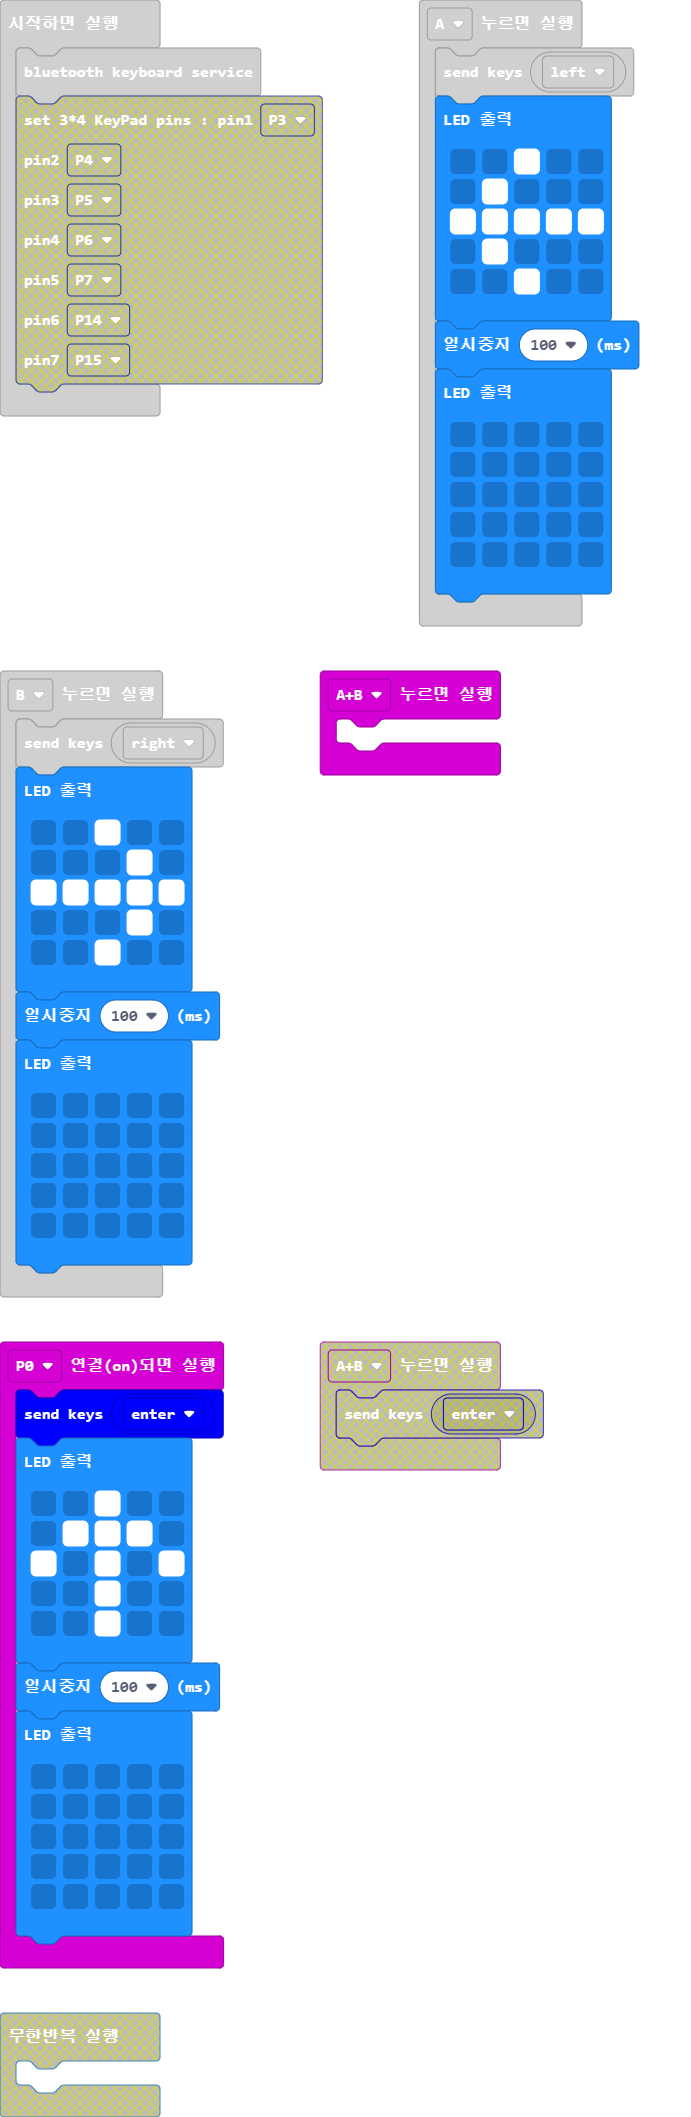
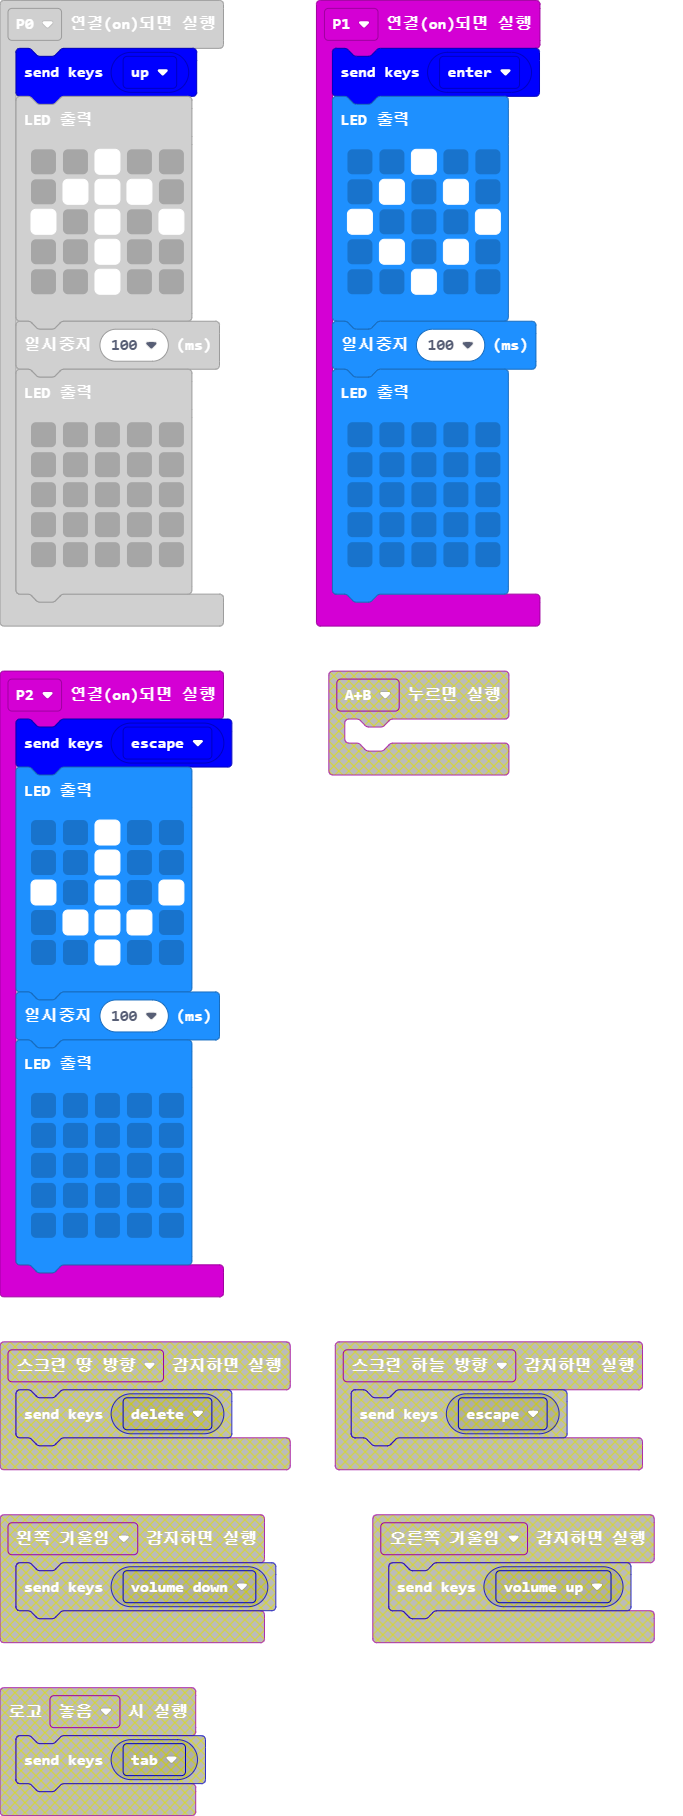
main.blocks, main.ts 업데이트하기

diff --git a/main.ts b/main.ts
@@ -1,8 +1,5 @@
-input.onGesture(Gesture.TiltRight, function () {
-    keyboard.sendString(keyboard.keys(keyboard._Key.vol_up))
-})
 input.onPinPressed(TouchPin.P0, function () {
-    keyboard.sendString(keyboard.keys(keyboard._Key.enter))
+    keyboard.sendString(keyboard.keys(keyboard._Key.up))
     basic.showLeds(`
         . . # . .
         . # # # .
@@ -18,12 +15,6 @@ input.onPinPressed(TouchPin.P0, function () {
         . . . . .
         . . . . .
         `)
-})
-input.onGesture(Gesture.TiltLeft, function () {
-    keyboard.sendString(keyboard.keys(keyboard._Key.vol_down))
-})
-input.onGesture(Gesture.ScreenUp, function () {
-    keyboard.sendString(keyboard.keys(keyboard._Key.escape))
 })
 input.onButtonPressed(Button.A, function () {
     keyboard.sendString(keyboard.keys(keyboard._Key.left))
@@ -43,14 +34,23 @@ input.onButtonPressed(Button.A, function () {
         . . . . .
         `)
 })
-input.onGesture(Gesture.ScreenDown, function () {
-    keyboard.sendString(keyboard.keys(keyboard._Key.delete))
-})
-input.onLogoEvent(TouchButtonEvent.Released, function () {
-    keyboard.sendString(keyboard.keys(keyboard._Key.tab))
-})
-input.onButtonPressed(Button.AB, function () {
-	
+input.onPinPressed(TouchPin.P2, function () {
+    keyboard.sendString(keyboard.keys(keyboard._Key.escape))
+    basic.showLeds(`
+        . . # . .
+        . . # . .
+        # . # . #
+        . # # # .
+        . . # . .
+        `)
+    basic.pause(100)
+    basic.showLeds(`
+        . . . . .
+        . . . . .
+        . . . . .
+        . . . . .
+        . . . . .
+        `)
 })
 input.onButtonPressed(Button.B, function () {
     keyboard.sendString(keyboard.keys(keyboard._Key.right))
@@ -59,6 +59,24 @@ input.onButtonPressed(Button.B, function () {
         . . . # .
         # # # # #
         . . . # .
+        . . # . .
+        `)
+    basic.pause(100)
+    basic.showLeds(`
+        . . . . .
+        . . . . .
+        . . . . .
+        . . . . .
+        . . . . .
+        `)
+})
+input.onPinPressed(TouchPin.P1, function () {
+    keyboard.sendString(keyboard.keys(keyboard._Key.enter))
+    basic.showLeds(`
+        . . # . .
+        . # . # .
+        # . . . #
+        . # . # .
         . . # . .
         `)
     basic.pause(100)
